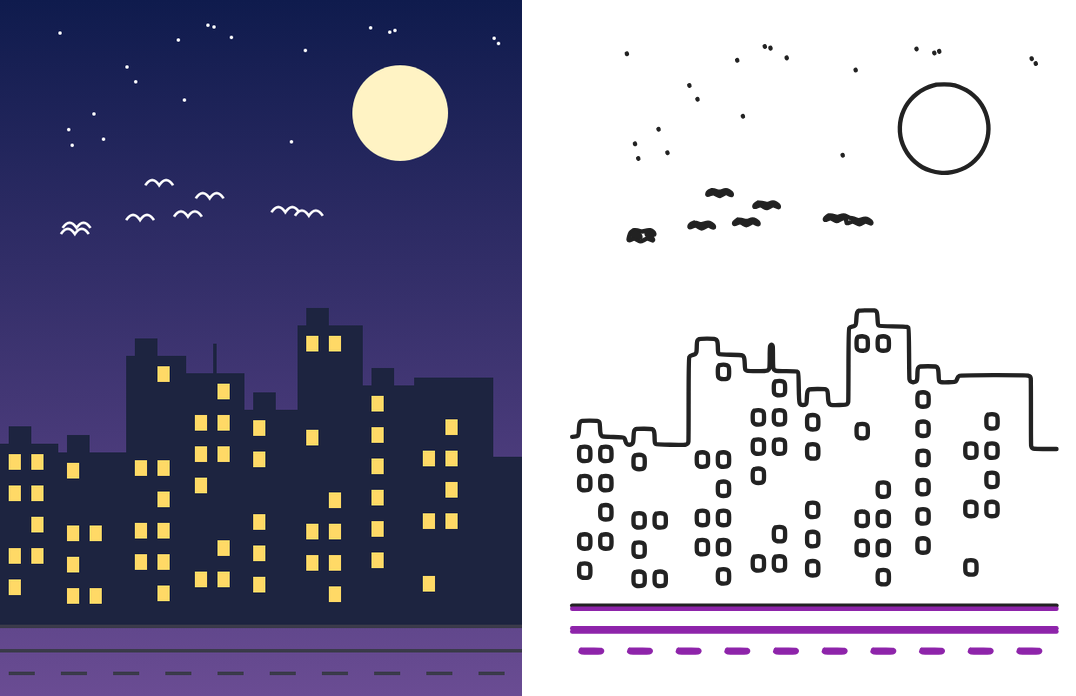
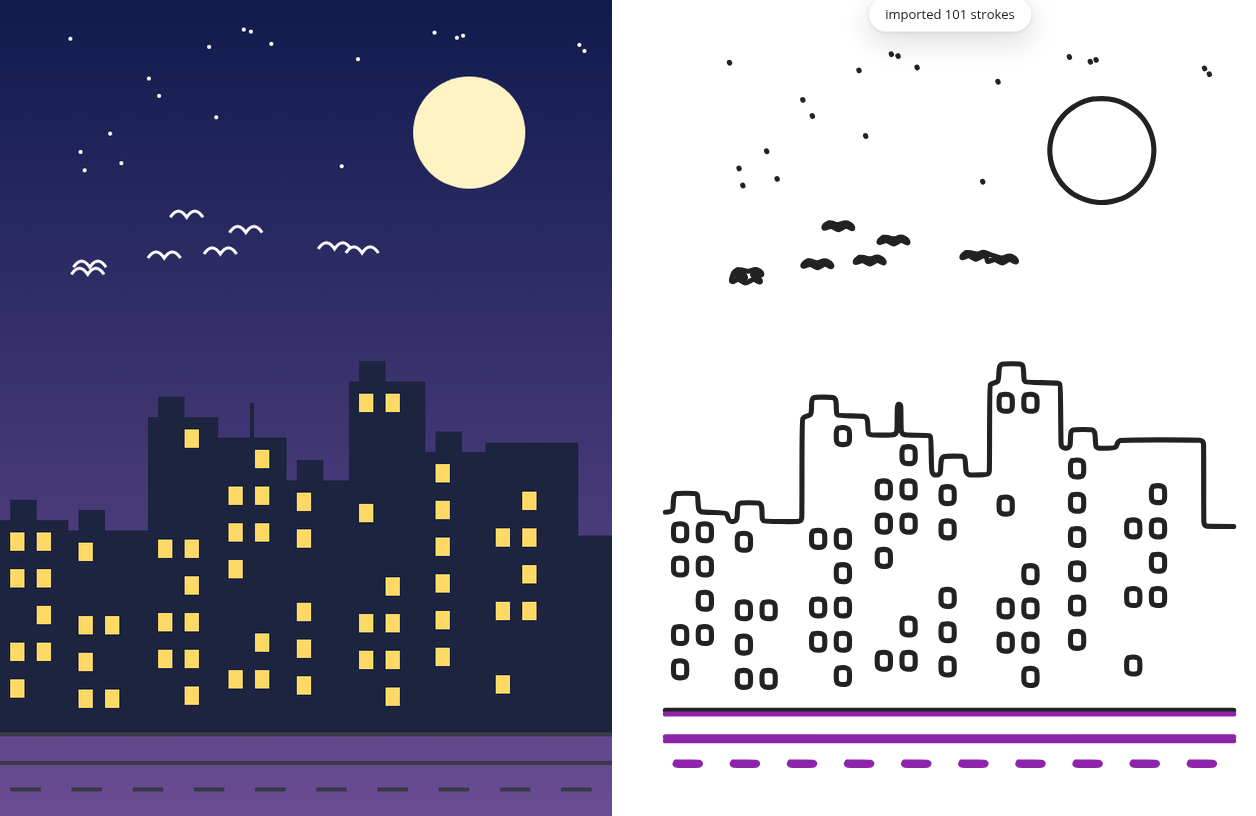
docs: describe the top bar layout, regenerate screenshots with the popover UI

diff --git a/docs/shots.py b/docs/shots.py
@@ -15,6 +15,8 @@ GIF_HEIGHT = 640
 FLOW_WIDTH = 900
 REPLAY_FRAMES = 70
 PHOTO_SLIDERS = {'photoDetail': '90', 'photoMin': '4'}
+POP_BUTTONS = {'popGallery': '#galleryBtn', 'popActions': '#actionsBtn', 'popGuides': '#guidesBtn', 'popColor': '#colorBtn',
+               'popBrush': '[data-tool=pen]', 'popEraser': '[data-tool=eraser]', 'popFill': '[data-tool=fill]'}
 BUILDING_STROKES = ['#8e24aa', '#1e88e5', '#0abab5', '#f06292', '#e53935']
 BASELINE = 720
 WINDOW = (14, 18)
@@ -138,22 +140,33 @@ def run():
         def stage():
             return ed.locator('.stage').bounding_box()
 
-        def save(name):
-            ed.locator('[data-tab=library]').click()
-            ed.locator('#libName').fill(name)
-            ed.locator('#libSave').click()
-            page.wait_for_timeout(300)
+        def close_pops():
+            ed.locator('body').evaluate('() => document.querySelectorAll(":popover-open").forEach(p => p.hidePopover())')
 
-        def import_tab():
-            ed.locator('[data-tab=draw]').click()
-            ed.locator('#clear').click()
-            ed.locator('[data-tab=import]').click()
+        def ui(sel):
+            pop, tab = ed.locator('body').evaluate('(_, s) => { const el = document.querySelector(s); return [el.closest("[popover]")?.id ?? null, el.closest("[data-panel]")?.dataset.panel ?? null]; }', sel)
+            if pop and ed.locator(f'#{pop}:popover-open').count() == 0:
+                close_pops()
+                button = ed.locator(POP_BUTTONS[pop])
+                if button.get_attribute('aria-pressed') == 'false': button.click()
+                button.click()
+            if tab: ed.locator(f'[data-tab={tab}]').click()
+            return ed.locator(sel)
+
+        def act(sel, method='click', *args, **kw):
+            getattr(ui(sel), method)(*args, **kw)
+            close_pops()
+
+        def save(name):
+            ui('#libName').fill(name)
+            act('#libSave')
+            page.wait_for_timeout(300)
 
         def kaleido():
             board = ed.locator('#board').bounding_box()
             cx, cy, unit = board['x'] + board['width'] / 2, board['y'] + board['height'] / 2, board['width'] / 720
-            ed.locator('#symmetry').select_option(label='Kaleido 12')
-            ed.locator('#rainbow').check(force=True)
+            act('#symmetry', 'select_option', label='Kaleido 12')
+            act('#rainbow', 'check', force=True)
             clip = stage()
             shot('kaleido', clip)
             for i in range(PETALS):
@@ -176,8 +189,7 @@ def run():
             page.wait_for_timeout(200)
 
         def replay():
-            ed.locator('[data-tab=draw]').click()
-            ed.locator('#replaySpeed').select_option('1')
+            act('#replaySpeed', 'select_option', '1')
             sdj = json.loads(ed.locator('#out').input_value())['sdj']
             step = round(end_time(sdj) / REPLAY_FRAMES)
             clip = stage()
@@ -203,30 +215,29 @@ def run():
         page.screenshot(path=str(DOCS / 'remix.png'))
         replay()
 
-        import_tab()
+        act('#clear')
         source = work / 'city.png'
         source.write_bytes(base64.b64decode(page.evaluate(RASTERIZE_JS, city(True))))
-        ed.locator('#photoFile').set_input_files(str(source))
+        ui('#photoFile').set_input_files(str(source))
         ed.locator('#photoColors').check(force=True)
         for id, value in PHOTO_SLIDERS.items():
             ed.locator(f'#{id}').evaluate('(e, v) => { e.value = v; e.dispatchEvent(new Event("input")); }', value)
         page.wait_for_timeout(2500)
+        close_pops()
         before_after(source, ed.locator('#board').screenshot(), DOCS / 'photo.png')
         save('City image')
 
-        import_tab()
-        ed.locator('#text').fill('Hello from far away, dear friend!')
-        ed.locator('#writeText').click()
+        act('#clear')
+        ui('#text').fill('Hello from far away, dear friend!')
+        act('#writeText')
         page.wait_for_timeout(800)
         save('Letter')
 
-        ed.locator('[data-tab=draw]').click()
-        ed.locator('#clear').click()
+        act('#clear')
         kaleido()
-        ed.locator('#rainbow').uncheck(force=True)
-        ed.locator('#symmetry').select_option('off')
+        act('#rainbow', 'uncheck', force=True)
+        act('#symmetry', 'select_option', 'off')
         save('Kaleido')
-        ed.locator('[data-tab=draw]').click()
         hold('flow', 3)
 
         ed.locator('#send').click()
@@ -241,7 +252,7 @@ def run():
         page.evaluate('document.documentElement.classList.add("theme-dark")')
         page.locator('.composer-actions .icon-drawing').click()
         page.wait_for_timeout(1200)
-        ed.locator('[data-tab=library]').click()
+        ed.locator('#galleryBtn').click()
         page.wait_for_timeout(300)
         page.screenshot(path=str(DOCS / 'library.png'))
         ctx.close()

diff --git a/README.md b/README.md
@@ -31,15 +31,15 @@ No store listing. `chrome://extensions`, Developer mode, Load unpacked, pick `ex
 
 - Esc closes Doodler without sending.
 
-Tabs on the right: Draw (symmetry, rainbow, reference image, replay), Import (SVG, photo, text), Library (saved drawings), JSON (the raw sdj, copy or load). Keys: B pen, L line, O ellipse, E eraser, `[` `]` weight.
+The top bar holds Gallery (saved drawings), Actions (add SVG, photo or text, reference image, Clear, the raw sdj, replay, shortcuts), canvas guides (symmetry, grid, snapping) and lasso select on the left, tools and colour on the right. Tap the active tool again for its options. The strip on the left has size, smoothing, the eyedropper and undo/redo. Keys: B pen, L line, O ellipse, E eraser, F fill, S select, `[` `]` weight.
 
 By hand, with Kaleido 12 symmetry and rainbow:
 
 ![Kaleido 12 symmetry with rainbow strokes](docs/draw.gif)
 
-Library in the dark theme:
+Gallery in the dark theme:
 
-![Library tab in the dark theme](docs/library.png)
+![Gallery in the dark theme](docs/library.png)
 
 Weights other than 1, 3, 6 and colors outside the 12 base ones are marked "experimental": they pass Slowly's validation but have not been checked in the mobile apps.
 
@@ -53,7 +53,7 @@ The editor runs in an iframe from the extension, with Slowly's stylesheets passe
 
 ## What breaks
 
-The send path depends on Slowly's markup and bundle. The selectors are in one object, `SLOWLY` in `content/content.js`. When a selector the extension expects is missing, it logs `doodler_selector_missing` and shows a toast once per session. The JSON tab still gives you the sdj to copy.
+The send path depends on Slowly's markup and bundle. The selectors are in one object, `SLOWLY` in `content/content.js`. When a selector the extension expects is missing, it logs `doodler_selector_missing` and shows a toast once per session. Actions > Share still gives you the sdj to copy.
 
 If Slowly changes the drawing format, `editor/sdj.js` and the validator copy used by the e2e test need to follow.
 
